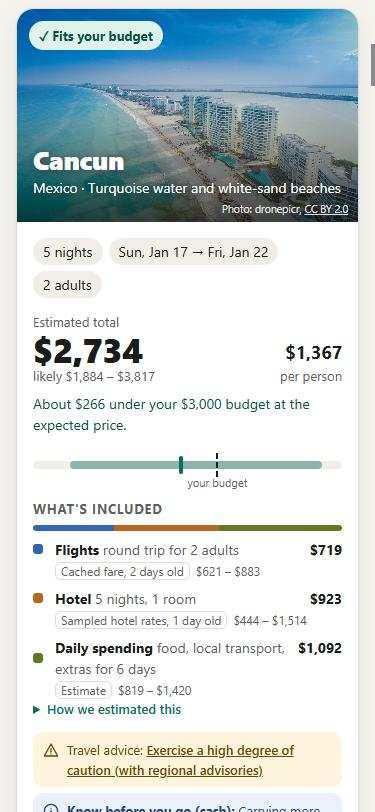
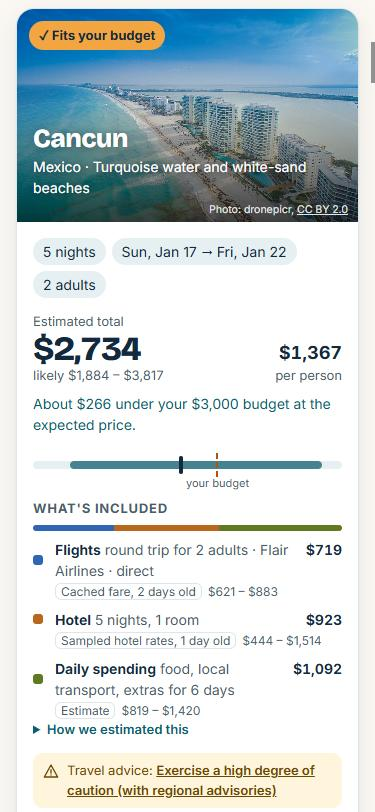
Use hotelLinkFor, show airline and stops, apply the brand look brief
Hotel button uses engine's hotelLinkFor() and names the partner (Klook or
Booking.com); both partner links are rel="noopener sponsored". The Flights
row shows the airline and direct/stops. Colours and type follow
docs/brand/name-and-brand.md section 5 (lake, sun CTA with ink text,
paper, mist; Bricolage Grotesque + Inter). Screenshots refreshed.

diff --git a/site/index.html b/site/index.html
@@ -8,31 +8,37 @@
 <meta name="color-scheme" content="light dark">
 <title>Budget Trip Finder</title>
 <link rel="preconnect" href="https://thumb.wikimedia.org">
+<link rel="preconnect" href="https://fonts.googleapis.com">
+<link rel="preconnect" href="https://fonts.gstatic.com" crossorigin>
+<link rel="stylesheet" href="https://fonts.googleapis.com/css2?family=Bricolage+Grotesque:opsz,wght@12..96,600..800&family=Inter:wght@400..700&display=swap">
 <style>
-  /* ---- Brand tokens: swap these to rebrand. ---- */
+  /* ---- Brand tokens: swap these to rebrand (palette and type from docs/brand/name-and-brand.md, section 5). ---- */
   :root {
-    --brand-name: "Budget Trip Finder";
-    --brand: #0b6e63;        /* primary: buttons, links, "fits" */
-    --brand-strong: #08564d;
+    --lake: #0E5E6F; --sun: #F2A541; --sun-deep: #B45309; --paper: #FBF8F3; --mist: #E6F0F2; --night: #13293D;
+    --brand: var(--lake);    /* links, secondary buttons, range band */
+    --brand-strong: #0a4855;
     --on-brand: #ffffff;
-    --sun: #f4a03a;          /* warm accent */
-    --font-display: ui-rounded, "SF Pro Rounded", "Segoe UI Variable Display", "Segoe UI", system-ui, sans-serif;
-    --font-body: system-ui, -apple-system, "Segoe UI", Roboto, sans-serif;
+    --cta: var(--sun); --cta-hover: #e8952a; --on-cta: var(--night);   /* the one call to action: always ink text on sun */
+    --font-display: "Bricolage Grotesque", system-ui, sans-serif;
+    --font-body: "Inter", system-ui, -apple-system, "Segoe UI", sans-serif;
 
-    --bg: #f6f4ef; --surface: #ffffff; --surface-2: #f1eee7; --ink: #1b1d1c; --muted: #5d625f; --line: #e2ddd3;
+    --bg: var(--paper); --surface: #ffffff; --surface-2: var(--mist); --ink: var(--night); --muted: #4b5d6c; --line: #dfe5e8;
+    --tick: var(--night);
     --flights: #2f66b3; --lodging: #b8681c; --daily: #5f7a22;
-    --fit-bg: #dff3ec; --fit-ink: #075347; --stretch-bg: #fdecd2; --stretch-ink: #7a4300;
-    --warn-bg: #fff4dc; --warn-ink: #6b4700; --info-bg: #eaf1fb; --info-ink: #1f4677;
-    --shadow: 0 1px 2px rgb(20 30 25 / 6%), 0 8px 24px rgb(20 30 25 / 8%);
+    --fit-bg: var(--sun); --fit-ink: var(--night); --stretch-bg: #fbe3c6; --stretch-ink: #8a3f06;
+    --under-ink: var(--lake); --over-ink: var(--sun-deep);
+    --warn-bg: #fff4dc; --warn-ink: #6b4700; --info-bg: #e8f1f8; --info-ink: #1d4466;
+    --shadow: 0 1px 2px rgb(19 41 61 / 6%), 0 8px 24px rgb(19 41 61 / 9%);
     --radius: 18px;
   }
   @media (prefers-color-scheme: dark) {
     :root {
-      --brand: #4cc4b0; --brand-strong: #7bd9c9; --on-brand: #06231f; --sun: #f6b25e;
-      --bg: #121514; --surface: #1b1f1e; --surface-2: #232827; --ink: #ecefed; --muted: #a3aaa7; --line: #303735;
-      --flights: #7fa8e8; --lodging: #e5a465; --daily: #a8c464;
-      --fit-bg: #133a33; --fit-ink: #9fe6d6; --stretch-bg: #3b2a12; --stretch-ink: #f6c98a;
-      --warn-bg: #362b13; --warn-ink: #f2d38c; --info-bg: #172638; --info-ink: #b5cdf0;
+      --brand: #6cc3d3; --brand-strong: #9ad8e3; --on-brand: var(--night); --cta-hover: #f6b964;
+      --bg: var(--night); --surface: #1a3349; --surface-2: #233f58; --ink: #f1efe9; --muted: #b3c2cf; --line: #2e4b65;
+      --tick: #f1efe9;
+      --flights: #86aef0; --lodging: #eaa765; --daily: #a8c464;
+      --stretch-bg: #4a3214; --stretch-ink: #f8cf98; --under-ink: #8fd6e2; --over-ink: #f6b56a;
+      --warn-bg: #3a2f17; --warn-ink: #f2d38c; --info-bg: #1d3a55; --info-ink: #bcd6ee;
       --shadow: 0 1px 2px rgb(0 0 0 / 40%), 0 8px 24px rgb(0 0 0 / 30%);
     }
   }
@@ -41,7 +47,7 @@
   html { -webkit-text-size-adjust: 100%; }
   body { margin: 0; background: var(--bg); color: var(--ink); font: 16px/1.5 var(--font-body); }
   a { color: var(--brand); }
-  :focus-visible { outline: 3px solid var(--sun); outline-offset: 2px; border-radius: 6px; }
+  :focus-visible { outline: 3px solid var(--sun); outline-offset: 2px; box-shadow: 0 0 0 2px var(--night); border-radius: 6px; }
   .wrap { max-width: 1140px; margin: 0 auto; padding: 0 16px; }
   .sr-only { position: absolute; width: 1px; height: 1px; overflow: hidden; clip: rect(0 0 0 0); white-space: nowrap; }
 
@@ -59,7 +65,7 @@
   .hero-copy { padding: 48px 0 124px; max-width: 720px; }
   .eyebrow { font-weight: 600; font-size: 14px; letter-spacing: .06em; text-transform: uppercase; opacity: .92; margin: 0 0 10px; }
   h1 { font: 800 clamp(34px, 7vw, 60px)/1.05 var(--font-display); letter-spacing: -0.02em; margin: 0 0 14px; text-shadow: 0 2px 18px rgb(0 0 0 / 30%); }
-  h1 .amt { color: #ffd38f; white-space: nowrap; }
+  h1 .amt { color: var(--sun); white-space: nowrap; }
   .hero-sub { font-size: clamp(16px, 2.4vw, 19px); margin: 0; max-width: 560px; text-shadow: 0 1px 10px rgb(0 0 0 / 35%); }
   .hero-credit { position: absolute; right: 16px; left: 16px; bottom: 92px; margin: 0; text-align: right; font-size: 11px; color: rgb(255 255 255 / 85%); }
   .hero-credit a { color: inherit; }
@@ -78,9 +84,9 @@
                   border-radius: 12px; padding: 11px 12px; min-width: 0; width: 100%; }
   .money input { font: 700 24px var(--font-display); padding: 10px 12px 10px 34px; }
   input:focus, select:focus { border-color: var(--brand); }
-  .go { grid-column: 1 / -1; font: 700 17px var(--font-display); background: var(--brand); color: var(--on-brand); border: 0;
+  .go { grid-column: 1 / -1; font: 700 17px var(--font-display); background: var(--cta); color: var(--on-cta); border: 0;
         border-radius: 12px; padding: 14px 18px; cursor: pointer; }
-  .go:hover { background: var(--brand-strong); }
+  .go:hover { background: var(--cta-hover); }
   @media (min-width: 760px) {
     form { grid-template-columns: 1.6fr repeat(5, minmax(0, 1fr)) auto; align-items: end; padding: 18px; }
     form > .field, form > .field.wide, .field.budget { grid-column: auto; }
@@ -120,14 +126,13 @@
   .price .pp { text-align: right; font-size: 14px; }
   .price .pp b { font-size: 18px; font-variant-numeric: tabular-nums; }
   .left { font-size: 14px; margin-top: -6px; }
-  .left.within { color: var(--fit-ink); } .left.stretch { color: var(--stretch-ink); }
-  @media (prefers-color-scheme: dark) { .left.within { color: var(--brand); } }
+  .left.within { color: var(--under-ink); } .left.stretch { color: var(--over-ink); }
 
   .meter { position: relative; height: 34px; margin: 2px 0 0; }
   .meter .track { position: absolute; left: 0; right: 0; top: 10px; height: 8px; border-radius: 4px; background: var(--surface-2); }
-  .meter .band { position: absolute; top: 10px; height: 8px; border-radius: 4px; background: color-mix(in srgb, var(--brand) 45%, transparent); }
-  .meter .exp { position: absolute; top: 5px; width: 4px; height: 18px; margin-left: -2px; border-radius: 2px; background: var(--brand); }
-  .meter .budget { position: absolute; top: 2px; height: 24px; border-left: 2px dashed var(--ink); }
+  .meter .band { position: absolute; top: 10px; height: 8px; border-radius: 4px; background: var(--brand); opacity: .75; }
+  .meter .exp { position: absolute; top: 5px; width: 4px; height: 18px; margin-left: -2px; border-radius: 2px; background: var(--tick); }
+  .meter .budget { position: absolute; top: 2px; height: 24px; border-left: 2px dashed var(--over-ink); }
   .meter .budget span { position: absolute; top: 22px; transform: translateX(-50%); font-size: 11px; color: var(--muted); white-space: nowrap; }
 
   .incl h3 { font-size: 13px; text-transform: uppercase; letter-spacing: .06em; color: var(--muted); margin: 0 0 6px; }
@@ -154,8 +159,8 @@
   .ctas { margin-top: auto; display: grid; gap: 8px; grid-template-columns: 1fr 1fr; }
   .btn { display: flex; align-items: center; justify-content: center; gap: 6px; text-align: center; text-decoration: none;
          font: 700 15px/1.2 var(--font-display); border-radius: 12px; padding: 12px 10px; min-height: 48px; }
-  .btn.primary { background: var(--brand); color: var(--on-brand); }
-  .btn.primary:hover { background: var(--brand-strong); }
+  .btn.primary { background: var(--cta); color: var(--on-cta); }
+  .btn.primary:hover { background: var(--cta-hover); }
   .btn.secondary { border: 2px solid var(--brand); color: var(--brand); }
   .btn.secondary:hover { background: var(--surface-2); }
   .fine { font-size: 12px; color: var(--muted); margin: -4px 0 0; }
@@ -168,7 +173,7 @@
   .how div { background: var(--surface); border: 1px solid var(--line); border-radius: var(--radius); padding: 18px; }
   .how h3 { margin: 0 0 4px; font: 700 18px var(--font-display); }
   .how p { margin: 0; color: var(--muted); font-size: 14px; }
-  .how .n { display: inline-grid; place-items: center; width: 28px; height: 28px; border-radius: 50%; background: var(--fit-bg); color: var(--fit-ink); font-weight: 800; margin-bottom: 8px; }
+  .how .n { display: inline-grid; place-items: center; width: 28px; height: 28px; border-radius: 50%; background: var(--sun); color: var(--night); font-weight: 800; margin-bottom: 8px; }
   footer { color: var(--muted); font-size: 13px; padding: 32px 0 48px; }
   footer p { margin: 0 0 8px; max-width: 760px; }
   footer strong { color: var(--ink); }
@@ -185,7 +190,7 @@
   <div class="wrap">
     <div class="topbar">
       <a class="logo" href="./" aria-label="Budget Trip Finder home">
-        <svg width="28" height="28" viewBox="0 0 28 28" aria-hidden="true"><circle cx="14" cy="14" r="13" fill="#f4a03a"/><path d="M6 17c3-1 5-4 8-4s5 3 8 4" stroke="#fff" stroke-width="2.4" fill="none" stroke-linecap="round"/><circle cx="14" cy="9" r="2.6" fill="#fff"/></svg>
+        <svg width="28" height="28" viewBox="0 0 28 28" aria-hidden="true"><circle cx="14" cy="14" r="13" fill="#F2A541"/><path d="M6 17c3-1 5-4 8-4s5 3 8 4" stroke="#fff" stroke-width="2.4" fill="none" stroke-linecap="round"/><circle cx="14" cy="9" r="2.6" fill="#fff"/></svg>
         <span class="brand-name">Budget Trip Finder</span>
       </a>
     </div>
@@ -195,7 +200,7 @@
       <p class="hero-sub">Give us one number for the whole trip. We price flights, a hotel and daily spending for every destination, then show you what fits.</p>
     </div>
   </div>
-  <p class="hero-credit">Photo: Bávaro beach, Punta Cana, by Oleg Yunakov, <a href="https://commons.wikimedia.org/wiki/File:2023_-_Playa_Bavaro_Punta_Cana_-_08.jpg" target="_blank" rel="noopener">CC BY-SA 4.0</a></p>
+  <p class="hero-credit" title="Bávaro beach, Punta Cana">Photo: Oleg Yunakov, <a href="https://commons.wikimedia.org/wiki/File:2023_-_Playa_Bavaro_Punta_Cana_-_08.jpg" target="_blank" rel="noopener">CC BY-SA 4.0</a></p>
 </header>
 
 <main class="wrap">
@@ -234,7 +239,7 @@
 </main>
 
 <script type="module">
-import { prepare, roomsNeeded, search } from "./engine.js";
+import { hotelLinkFor, prepare, roomsNeeded, search } from "./engine.js";
 import { PHOTOS } from "./photos.js";
 
 const f = document.getElementById("f");
@@ -268,14 +273,6 @@ const icon = (path) => {
 const ICON_WARN = "M12 3 2 21h20L12 3zm0 7v5m0 3v.01";
 const ICON_INFO = "M12 22a10 10 0 1 0 0-20 10 10 0 0 0 0 20zm0-11v6m0-9v.01";
 
-function hotelLink(p, req) {
-  const q = new URLSearchParams({
-    ss: p.dest.name, checkin: p.fare.depart, checkout: p.fare.ret,
-    group_adults: req.adults, group_children: req.children, no_rooms: roomsNeeded(req.adults, req.children),
-  });
-  return "https://www.booking.com/searchresults.html?" + q;
-}
-
 // Turn the engine's confidence label into plain words; the raw label stays in the tooltip.
 function confText(c) {
   let m;
@@ -286,8 +283,10 @@ function confText(c) {
   return c;
 }
 
+const stops = (n) => (n == null ? null : n === 0 ? "direct" : `${n} stop${n > 1 ? "s" : ""}`);
+
 const LABELS = {
-  flights: (p, req, t) => ["Flights", `round trip for ${t}`],
+  flights: (p, req, t) => ["Flights", [`round trip for ${t}`, p.fare.airline, stops(p.fare.transfers)].filter(Boolean).join(" · ")],
   lodging: (p, req) => ["Hotel", `${p.nights} nights, ${roomsNeeded(req.adults, req.children)} room${roomsNeeded(req.adults, req.children) > 1 ? "s" : ""}`],
   daily: (p) => ["Daily spending", `food, local transport, extras for ${p.nights + 1} days`],
 };
@@ -383,9 +382,10 @@ function card(p, req, data) {
 
   // Outbound partner links (we refer, we don't sell)
   const ctas = el("div", { class: "ctas" });
+  const hotel = hotelLinkFor(p.dest, p.fare, req);
   if (p.fare.link) ctas.append(el("a", { class: "btn primary", href: p.fare.link, target: "_blank", rel: "noopener sponsored" }, "See flights on Aviasales ↗"));
-  ctas.append(el("a", { class: `btn ${p.fare.link ? "secondary" : "primary"}`, href: hotelLink(p, req), target: "_blank", rel: "noopener" }, "See hotels on Booking.com ↗"));
-  if (!p.fare.link) ctas.style.gridTemplateColumns = "1fr";
+  if (hotel) ctas.append(el("a", { class: `btn ${p.fare.link ? "secondary" : "primary"}`, href: hotel.url, target: "_blank", rel: "noopener sponsored" }, `See hotels on ${hotel.partner} ↗`));
+  if (ctas.childElementCount < 2) ctas.style.gridTemplateColumns = "1fr";
   b.append(ctas, el("p", { class: "fine" }, "Prices are estimates. Opens the partner site, where you check live prices and book. May be an affiliate link."));
 
   c.append(b);

diff --git a/docs/design/README.md b/docs/design/README.md
@@ -1,9 +1,9 @@
 # Site redesign screenshots
 
-Taken 2026-11-25 from `site/` on branch `site-redesign`, served locally, with the 2026-11-26 data snapshot.
+Taken 2026-11-25 from `site/` on branch `site-redesign` (rebased on main's tracked-link and airline changes), served locally.
 
 - `desktop-light.png`, `desktop-dark.png`: 1366 px wide, top 3000 px of the page (headless Edge).
-- `mobile-*.jpg`: 375 x 812 phone viewport (in-app browser): hero and search, a result card, the partner links, and a card in dark mode.
+- `mobile-*.jpg`: 375 x 812 phone viewport (in-app browser): hero and search (dark), a result card, the partner links, and a card in dark mode.
 
 ## What changed
 - Hero photo with the budget question ("Where can $3,000 take you?"), updated live as the budget changes.
@@ -12,10 +12,11 @@ Taken 2026-11-25 from `site/` on branch `site-redesign`, served locally, with th
 - A small meter shows the low-to-high range against the budget line; the same numbers are written as text.
 - "What's included" lists flights, hotel and daily spending with each one's range and confidence label in plain words ("Cached fare, 2 days old"); the engine's detail strings sit under "How we estimated this".
 - Travel advice and "Know before you go" notes stay on every card, with their official sources.
-- Partner buttons say where they go ("See flights on Aviasales", "See hotels on Booking.com"), never "Book now". A line under them says prices are estimates and links may be affiliate links.
+- Partner buttons say where they go ("See flights on Aviasales", "See hotels on Klook" or "on Booking.com", from `hotelLinkFor()`), never "Book now". Both are `rel="noopener sponsored"`.
+- The Flights row names the airline and says direct or how many stops. A line under them says prices are estimates and links may be affiliate links.
 
-## Brand swap
-Colours and fonts are CSS custom properties at the top of `site/index.html` (`--brand`, `--sun`, `--font-display`, ...). The name appears in `<title>`, the logo text and the logo `aria-label`.
+## Brand
+Colours and type follow `docs/brand/name-and-brand.md` section 5: lake `#0E5E6F`, sun `#F2A541` for the one call to action (ink text on it), paper background, mist fields and track, ink dark mode; Bricolage Grotesque for display and Inter for text (Google Fonts). All are CSS custom properties at the top of `site/index.html`. The name stays "Budget Trip Finder" until the owner picks one; it appears in `<title>`, the logo text and the logo `aria-label`.
 
 ## Photos
 `site/photos.js` maps each airport code to a Wikimedia Commons photo (hotlinked 960 px thumbnail) with author, licence and file page; the card shows the credit. To swap a photo, change all four fields together.
